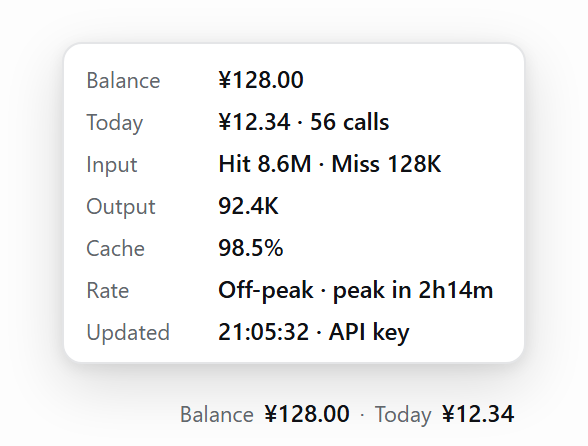
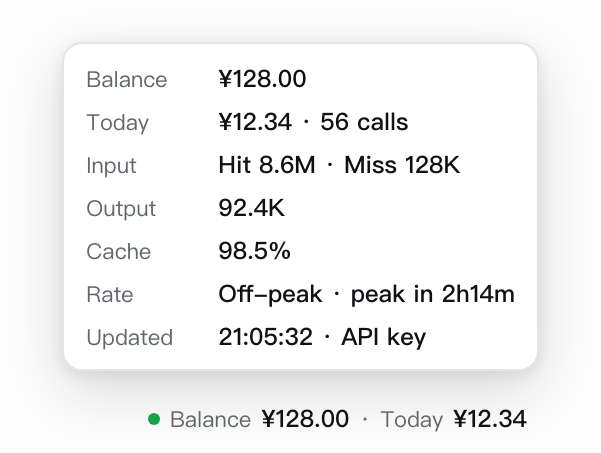
feat: mark the peak/off-peak window with a colored status dot
The readout now starts with a 6px dot: green while the off-peak discount
applies, amber during peak hours. It reuses the local clock rule the hover
card countdown already runs on, so it flips at the same boundaries without
an extra request, and it stays visible in compact mode where the labels go.

Colors come from the DSH state tokens (success/warn primary) with hex
fallbacks for shells that predate them; the dot is decorative and stays out
of the accessibility tree because the readout's aria-label already names
the window. Smoke tests pin both states (Friday 10:00 peak, 12:30 off-peak)
and the preview mocks plus READMEs document it. Version bumped to 0.2.8.

diff --git a/client.js b/client.js
@@ -290,6 +290,17 @@ window.__ModuleLoader__.load({
 				fontSize: '11px',
 				color: 'var(--dsw-alias-label-secondary)',
 			},
+			// Peak/off-peak status dot in front of the readout. Both colors come
+			// from the theme, so the dot stays legible in light and dark; the hex
+			// fallbacks only apply on shells that predate the state tokens.
+			rateDot: {
+				flex: '0 0 auto',
+				alignSelf: 'center',
+				width: '6px',
+				height: '6px',
+				borderRadius: '50%',
+				transition: 'background 200ms',
+			},
 			errorValue: {
 				fontSize: '12px',
 				fontVariantNumeric: 'tabular-nums',
@@ -725,6 +736,13 @@ window.__ModuleLoader__.load({
 			const LOCALE_TAG = localeTag(locale);
 			const peak = isPeak(now);
 			const countdown = humanDuration(secondsToSwitch(now));
+			// Green while the off-peak discount applies, amber during peak hours.
+			// Decorative only: the readout's aria-label already names the window.
+			const rateDotStyle = Object.assign({}, CSS.rateDot, {
+				background: peak
+					? 'var(--dsw-alias-state-warn-primary, #d97706)'
+					: 'var(--dsw-alias-state-success-primary, #16a34a)',
+			});
 			const currency = (snapshot && snapshot.currency) || 'CNY';
 			const balance = money(snapshot ? snapshot.balance : null, currency);
 			const today = snapshot && snapshot.today ? snapshot.today : null;
@@ -821,6 +839,7 @@ window.__ModuleLoader__.load({
 							hideCard();
 						},
 					},
+					h('span', { style: rateDotStyle, 'aria-hidden': 'true' }),
 					compact ? null : h('span', { style: CSS.label }, T.balance),
 					h('span', { style: error && snapshot == null ? CSS.errorValue : CSS.value }, balance),
 					h('span', { style: CSS.dot }, '·'),

diff --git a/tools/preview/preview-en.html b/tools/preview/preview-en.html
@@ -43,6 +43,7 @@
   .pill .lbl { font-size: 11px; color: #61666b; }
   .pill .val { font-size: 12px; font-weight: 500; font-variant-numeric: tabular-nums; color: #0f1115; }
   .pill .dot { font-size: 11px; color: #61666b; }
+  .pill .rate { flex: 0 0 auto; align-self: center; width: 6px; height: 6px; border-radius: 50%; background: #16a34a; }
 </style></head>
 <body>
   <div class="wrap">
@@ -56,7 +57,7 @@
       <div class="row"><span class="label">Updated</span><span class="value">21:05:32 · API key</span></div>
     </div>
     <div class="pill">
-      <span class="lbl">Balance</span><span class="val">¥128.00</span><span class="dot">·</span><span class="lbl">Today</span><span class="val">¥12.34</span>
+      <span class="rate"></span><span class="lbl">Balance</span><span class="val">¥128.00</span><span class="dot">·</span><span class="lbl">Today</span><span class="val">¥12.34</span>
     </div>
   </div>
 </body></html>

diff --git a/tools/preview/preview.html b/tools/preview/preview.html
@@ -43,6 +43,7 @@
   .pill .lbl { font-size: 11px; color: #61666b; }
   .pill .val { font-size: 12px; font-weight: 500; font-variant-numeric: tabular-nums; color: #0f1115; }
   .pill .dot { font-size: 11px; color: #61666b; }
+  .pill .rate { flex: 0 0 auto; align-self: center; width: 6px; height: 6px; border-radius: 50%; background: #16a34a; }
 </style></head>
 <body>
   <div class="wrap">
@@ -56,7 +57,7 @@
       <div class="row"><span class="label">更新</span><span class="value">21:05:32 · API Key</span></div>
     </div>
     <div class="pill">
-      <span class="lbl">余额</span><span class="val">¥128.00</span><span class="dot">·</span><span class="lbl">今日</span><span class="val">¥12.34</span>
+      <span class="rate"></span><span class="lbl">余额</span><span class="val">¥128.00</span><span class="dot">·</span><span class="lbl">今日</span><span class="val">¥12.34</span>
     </div>
   </div>
 </body></html>

diff --git a/README.md b/README.md
@@ -17,6 +17,7 @@ Balance ¥128.00 · Today ¥12.34
 - **Balance**: the official `GET /user/balance` — uses the saved `DEEPSEEK_API_KEY` first, falling back to the signed-in DeepSeek account wallet.
 - **Today's spend**: the official Platform usage export (Beijing calendar day, same numbers as the console's Usage page); falls back to a local session-log estimate, marked with `≈`.
 - **Hover / click**: hover shows balance, today's spend and request count, input (hit / miss) tokens, output tokens, cache hit rate, the peak/off-peak countdown, update time and source; click refreshes.
+- **Status dot**: the dot at the start of the readout is green during off-peak hours and amber during peak hours; the hover card carries the countdown.
 - **Language**: the readout follows the DSH interface language (Chinese / English) and switches live with the Language setting.
 
 ## Install

diff --git a/README.zh-CN.md b/README.zh-CN.md
@@ -17,6 +17,7 @@
 - **余额**：官方 `GET /user/balance`——优先用已保存的 `DEEPSEEK_API_KEY`，取不到时退回当前登录的 DeepSeek 账号钱包。
 - **今日消费**：DeepSeek 后台官方用量口径（北京时间 0 点起算，与网页控制台「用量」页一致）；官方不可用时回退本机会话日志估算，读数带 `≈`。
 - **悬停 / 点击**：悬停显示余额、今日消费与请求数、输入（命中 / 未命中）、输出、缓存命中率、峰谷倒计时、更新时间与来源；点击立即刷新。
+- **状态点**：读数最左侧的小圆点，低谷时段为绿色、高峰时段为琥珀色；倒计时见悬停卡片。
 - **语言**：界面文案跟随 DSH 界面语言自动切换（中文 / English），随语言设置即时生效。
 
 ## 安装
